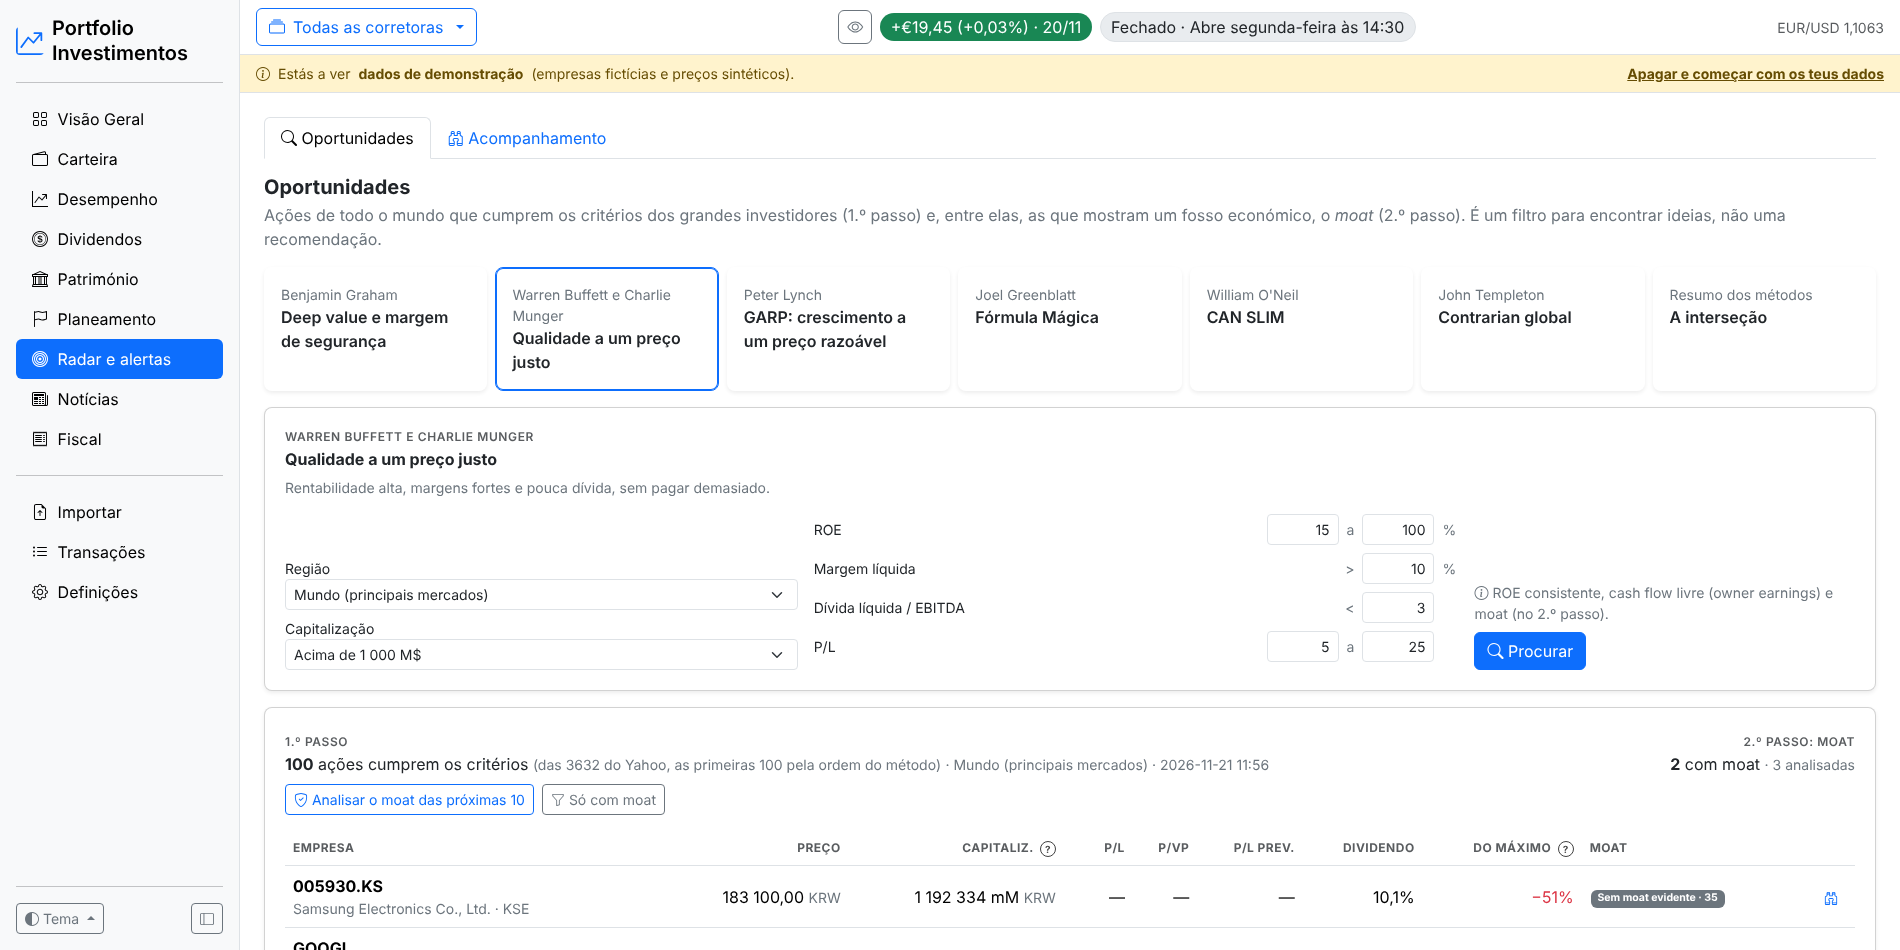
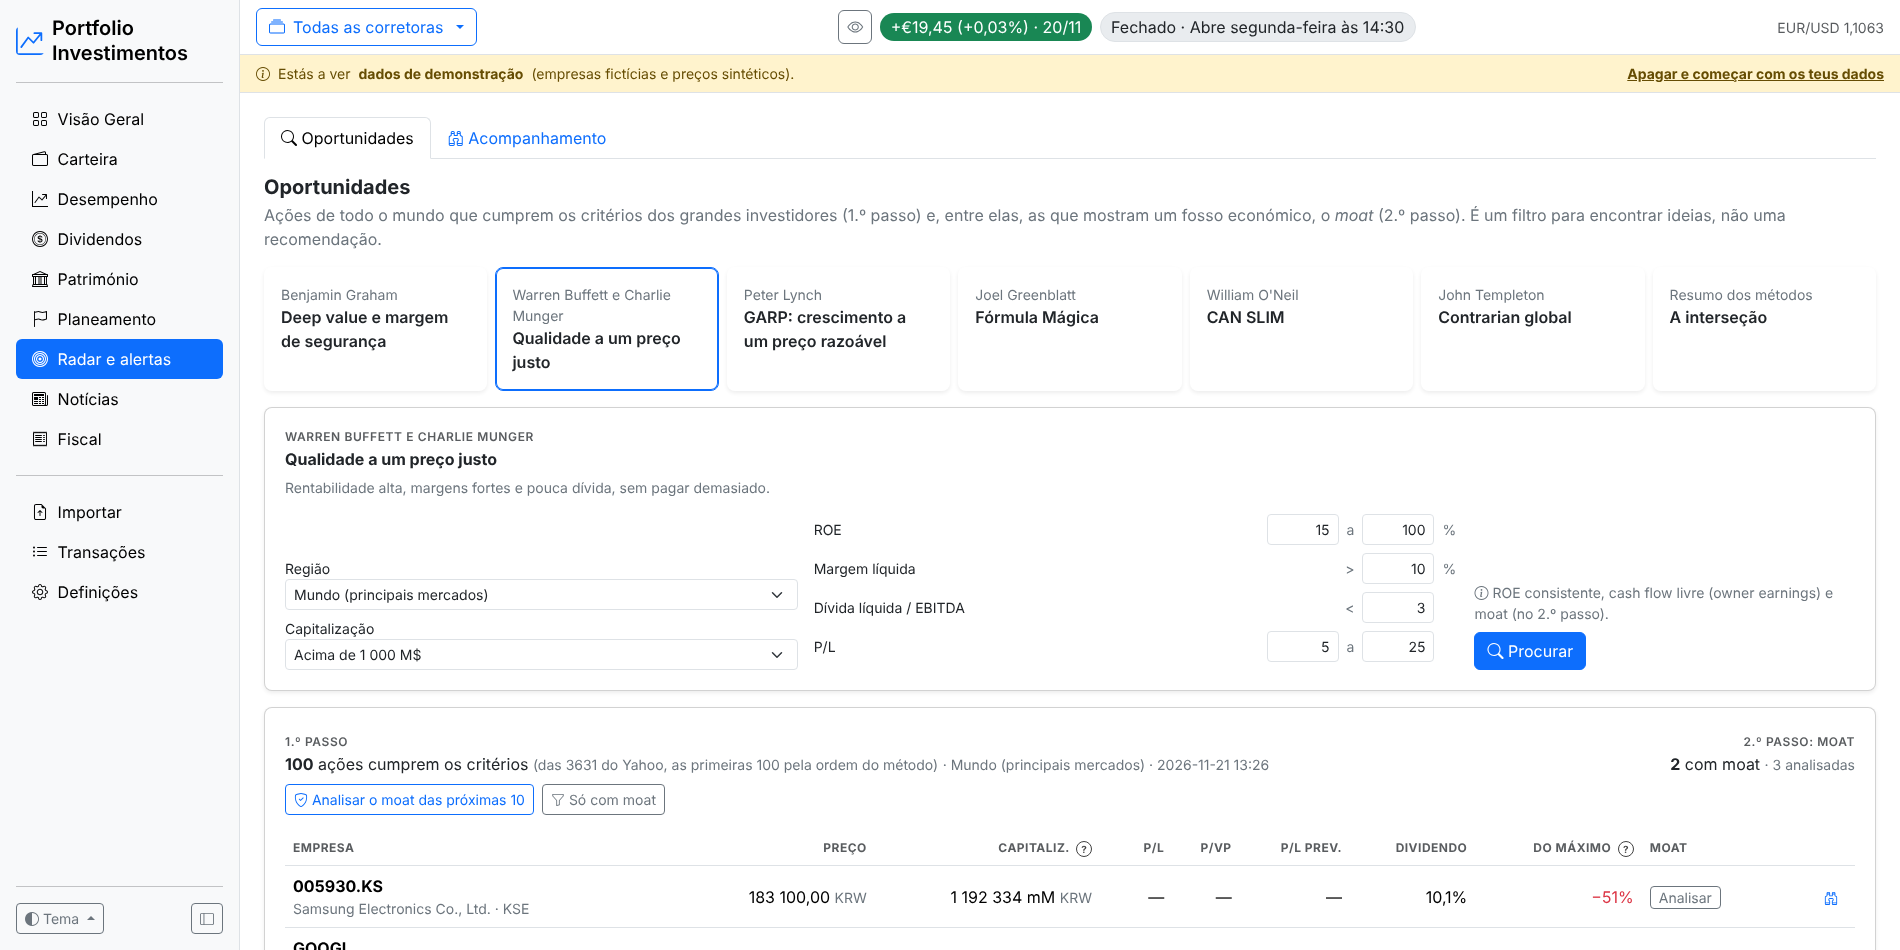
README: capturas e funcionalidades atualizadas
Todas as capturas (modo claro e escuro) refeitas com os mesmos dados:
demonstração, uma pesquisa real nas Oportunidades (moat analisado pela
aplicação) e ações em Acompanhamento com um alerta disparado. A
descrição passa a incluir o Acompanhamento na introdução, nas páginas
disponíveis offline (com o Planeamento) e no aviso da Visão Geral.

O aviso de um alerta mantém as siglas em maiúsculas («P/L abaixo de
30» em vez de «p/l abaixo de 30»).

Claude-Session: https://claude.ai/code/session_01AhMv5rzh4esVFWwNf2sje8

Changed region(s): [[0.4968, 0.8853, 0.9005, 0.9768], [0.3105, 0.7937, 0.6521, 0.8242], [0.3726, 0.8853, 0.4658, 0.9768]]

diff --git a/README.md b/README.md
@@ -2,7 +2,7 @@
 
 [![Testes](https://github.com/geneiros/PortfolioInvestimentos/actions/workflows/testes.yml/badge.svg)](https://github.com/geneiros/PortfolioInvestimentos/actions/workflows/testes.yml) [![Buy Me a Coffee](https://img.shields.io/badge/Buy%20Me%20a%20Coffee-ffdd00?logo=buymeacoffee&logoColor=black)](https://buymeacoffee.com/geneiros)
 
-Gestor de carteira de investimentos local: desempenho, dividendos, património, planeamento FIRE, oportunidades com os critérios dos grandes investidores (Graham, Buffett, Lynch…) e o moat de cada empresa, notícias, fiscalidade (PT) e importação de extratos da Trading 212, XTB, Trade Republic, DEGIRO e Interactive Brokers. **Corre no teu computador**, com alertas de preço e da carteira e lista de observação.
+Gestor de carteira de investimentos local: desempenho, dividendos, património, planeamento FIRE, oportunidades com os critérios dos grandes investidores (Graham, Buffett, Lynch…) e o moat de cada empresa, notícias, fiscalidade (PT) e importação de extratos da Trading 212, XTB, Trade Republic, DEGIRO e Interactive Brokers. **Corre no teu computador**, com o acompanhamento das ações que te interessam (preço, P/L, dividendo, critérios do método e moat, cada um com alerta) e alertas da carteira.
 
 - **Sem servidor e sem base de dados para instalar.** Os dados ficam num único ficheiro SQLite no teu computador.
 - **Abre-se com um duplo clique.** O script de arranque prepara tudo na primeira vez e abre o browser; sem Python, há um **executável único** para Windows, macOS e Linux e uma **app Android** (APK).
@@ -60,7 +60,7 @@ No **Chrome** ou no **Edge**, com a aplicação aberta em `http://127.0.0.1:5000
 
 #### Disponível offline
 
-Para consultar os últimos dados com a aplicação parada (por exemplo, com o Termux ou o computador desligados), liga **Definições → Disponível offline**. A partir daí, as páginas de consulta (Visão Geral, Carteira, Desempenho, Dividendos, Fiscal, Radar e Transações) ficam guardadas no browser tal como estavam da última vez que as abriste. A cópia é renovada de 30 em 30 minutos enquanto a aplicação está aberta, ou quando carregas em **Guardar cópia agora**.
+Para consultar os últimos dados com a aplicação parada (por exemplo, com o Termux ou o computador desligados), liga **Definições → Disponível offline**. A partir daí, as páginas de consulta (Visão Geral, Carteira, Desempenho, Dividendos, Fiscal, Planeamento, Radar e alertas — Oportunidades e Acompanhamento — e Transações) ficam guardadas no browser tal como estavam da última vez que as abriste. A cópia é renovada de 30 em 30 minutos enquanto a aplicação está aberta, ou quando carregas em **Guardar cópia agora**.
 
 - Sem a aplicação a correr, aparece a faixa "Modo offline", com a data dos dados. A página recarrega sozinha quando a aplicação voltar.
 - Funciona só para consulta. Importar, editar, atualizar cotações e mudar de corretora precisam da aplicação a correr.
@@ -247,7 +247,7 @@ O tema escolhe-se no botão **Tema**, no fundo da barra lateral: Claro, Escuro, 
 
 | Página | O que mostra |
 | --- | --- |
-| **Visão Geral** | **Cartão Carteira**: valor das posições, património líquido total e disponível, a **variação diária** (último dia de mercado, em % e €), o retorno total e a variação do período escolhido na barra de períodos (por omissão, o **ano corrente**), em % e €; com a opção «de 5 em 5 minutos» (Definições), estes valores e a pílula do topo atualizam-se sozinhos durante o horário das bolsas, com «atualizado às HH:MM»; ao fundo do cartão, um gráfico com a evolução do **valor total da carteira** (posições + caixa) no período escolhido — o dinheiro a caminho entre corretoras conta, por isso uma passagem da XTB para a Trading 212 (ou outra) não faz descer o gráfico; por baixo, os resultados (não realizado, dividendos, realizado, comissões) e a conta (custo base, depositado, caixa, valor total, juros). A **barra de períodos** (1M a Máx, abre em YTD), entre o cartão e o gráfico, muda os dois. **Gráfico de evolução** (retorno ou valor, a toda a largura) com comparação com o S&P 500, o MSCI World, o FTSE All-World e o STOXX Europe 600 e **as minhas posições** (as 5 com maior ganho ou perda e as restantes somadas; na legenda, por selecionar). **Perfil de investidor**: Investor Score e Portfolio Score (0-100, últimos 3 anos) com seis perfis (Passive Index, Concentrated Picker, Diversified Active, Income Focus, Growth/Tech, Active Trader), o perfil sugerido pela carteira e a fórmula de cada métrica no «?»; um perfil por corretora e outro para todas as corretoras, com um aviso quando o perfil escolhido não é o que a carteira sugere. Principais movers do dia (até 8), com o nome, o preço e um gráfico do último ano, verde acima do teu preço médio de aquisição (tracejado) e vermelho abaixo. Próximos eventos dos próximos 90 dias (resultados, com o intervalo quando ainda é estimado, ex-dividendo e pagamentos). **Peso vs retorno** (mapa e bolhas) e **alocação** por setor, geografia, classe e corretora. |
+| **Visão Geral** | **Cartão Carteira**: valor das posições, património líquido total e disponível, a **variação diária** (último dia de mercado, em % e €), o retorno total e a variação do período escolhido na barra de períodos (por omissão, o **ano corrente**), em % e €; com a opção «de 5 em 5 minutos» (Definições), estes valores e a pílula do topo atualizam-se sozinhos durante o horário das bolsas, com «atualizado às HH:MM»; ao fundo do cartão, um gráfico com a evolução do **valor total da carteira** (posições + caixa) no período escolhido — o dinheiro a caminho entre corretoras conta, por isso uma passagem da XTB para a Trading 212 (ou outra) não faz descer o gráfico; por baixo, os resultados (não realizado, dividendos, realizado, comissões) e a conta (custo base, depositado, caixa, valor total, juros). A **barra de períodos** (1M a Máx, abre em YTD), entre o cartão e o gráfico, muda os dois. **Gráfico de evolução** (retorno ou valor, a toda a largura) com comparação com o S&P 500, o MSCI World, o FTSE All-World e o STOXX Europe 600 e **as minhas posições** (as 5 com maior ganho ou perda e as restantes somadas; na legenda, por selecionar). **Perfil de investidor**: Investor Score e Portfolio Score (0-100, últimos 3 anos) com seis perfis (Passive Index, Concentrated Picker, Diversified Active, Income Focus, Growth/Tech, Active Trader), o perfil sugerido pela carteira e a fórmula de cada métrica no «?»; um perfil por corretora e outro para todas as corretoras, com um aviso quando o perfil escolhido não é o que a carteira sugere. Principais movers do dia (até 8), com o nome, o preço e um gráfico do último ano, verde acima do teu preço médio de aquisição (tracejado) e vermelho abaixo. Próximos eventos dos próximos 90 dias (resultados, com o intervalo quando ainda é estimado, ex-dividendo e pagamentos). **Peso vs retorno** (mapa e bolhas) e **alocação** por setor, geografia, classe e corretora. Quando dispara um alerta do Acompanhamento ou da carteira, aparece no topo, com a ligação para Radar e alertas. |
 | **Carteira** | Posições abertas/fechadas, carteira vs mercado no dia (até 5 índices à escolha: MSCI World, FTSE All-World, S&P 500, Dow Jones, Nasdaq 100, Russell 2000, Bitcoin, FTSE 100, CAC 40, DAX, STOXX Europe 600, Euro STOXX 50, AEX e Euronext 100) com alertas da variação do dia de toda a carteira ou de uma corretora (1, 2, 3 ou 5%, a subir, a descer ou os dois; no máximo um aviso por dia e por sentido, sem contar depósitos e levantamentos), filtros por setor, pesquisa, tabela ordenável (preço, 1D, preço médio, investido, valor, não realizado, dividendos, efeito cambial, comissões, ROI, peso) e alocação por ativo, setor e moeda. **Raio-X dos ETF**: a exposição real por empresa, país e setor (em gráficos circulares e em barras), somando as posições dentro dos ETF (pela composição publicada pelo emitente, carregada em CSV/XLSX ou descarregada do site dele) às ações diretas, e a sobreposição entre ETF. «As crises»: quanto cairia a carteira de hoje se 2008, 2011, 2020 ou 2022 se repetissem (beta de cada posição face ao S&P 500) e quanto tempo levava a recuperar. «Os custos»: comissões, custo dos ETF (TER, indicado por ti) e retenções na fonte acima dos 15% da convenção, por ano e daqui a 20 anos. «O valor de cada ação»: por ordem de popularidade, DCF, Número de Graham, fórmula de crescimento de Graham (com o rendimento das obrigações AAA configurável) e modelo de Gordon, e em «Mais métodos» Owner Earnings (Buffett), Earnings Power Value (Greenwald), Bazin e o PEG de Peter Lynch, sempre em intervalo e com a fórmula e os números no «?», comparados com o preço, e o crescimento que o preço de hoje já assume; dados fundamentais do Yahoo (uma vez por semana, na atualização de cotações; se o pedido principal falhar, a partir das demonstrações financeiras, também da cotação principal pelo ISIN, convertidos para a moeda da cotação), que podes corrigir. |
 | **Desempenho** | O botão **«Imprimir / PDF»** abre o relatório anual (ver Fiscal). Retorno total e IRR, TWR e CAGR comparados com os mesmos índices da Visão Geral (S&P 500, MSCI World, FTSE All-World e STOXX Europe 600; vários ao mesmo tempo, nos gráficos e ao lado dos valores; a escolha mantém-se ao mudar de período); **«E se tivesse investido no índice?»**: o mesmo dinheiro, nos mesmos dias, em cada índice (valor hoje, ganho, IRR e diferença para a carteira, com gráfico); melhor/pior ano e mês, sequência atual; TWR anual e acumulado; drawdown; mapa de retornos mensais; mérito vs mercado (captura em alta/baixa, beta, % de meses acima do mercado); risco (Sharpe, Sortino, Calmar, volatilidade, max drawdown); alfa de Jensen e distribuição mensal ordenada. |
 | **Dividendos** | Recebido líquido/bruto e retenção na fonte, maior pagador, meses com dividendos, rendimento anualizado, crescimento anual. **Projeção** do ano e dos próximos 12 meses com os dividendos recebidos e, para posições recentes, os dividendos por ação do Yahoo, com a origem de cada valor. Dividendos por ano, decomposição do crescimento, **mapa mensal com a linha do próximo ano**, **datas ex-dividendo** (recebido, a receber, sem direito por ter comprado depois, previsto), yield on cost e histórico. |

diff --git a/CHANGELOG.md b/CHANGELOG.md
@@ -4,6 +4,8 @@ O que mudou em cada commit, do mais recente para o mais antigo (gerado a partir 
 
 ## 2026-11-21
 
+- **README: capturas e funcionalidades atualizadas**  
+  Todas as capturas refeitas com os mesmos dados (demonstração, uma pesquisa real nas Oportunidades e ações em Acompanhamento com um alerta disparado). A descrição passa a incluir o Acompanhamento na introdução, nas páginas disponíveis offline e no aviso da Visão Geral. O aviso de um alerta mantém as siglas em maiúsculas («P/L abaixo de 30»).
 - **Radar e alertas: Oportunidades primeiro e Acompanhamento**  
   O separador Oportunidades passa a ser o primeiro e abre por omissão. «Alertas e radar» passa a Acompanhamento: as ações juntadas a partir das Oportunidades (com o método e os limites usados) ou à mão. Em cada uma escolhes os parâmetros a acompanhar e, em cada um, se queres ser avisado:
   - preço abaixo/acima de um valor, variação do dia e queda desde o máximo de 52 semanas;
